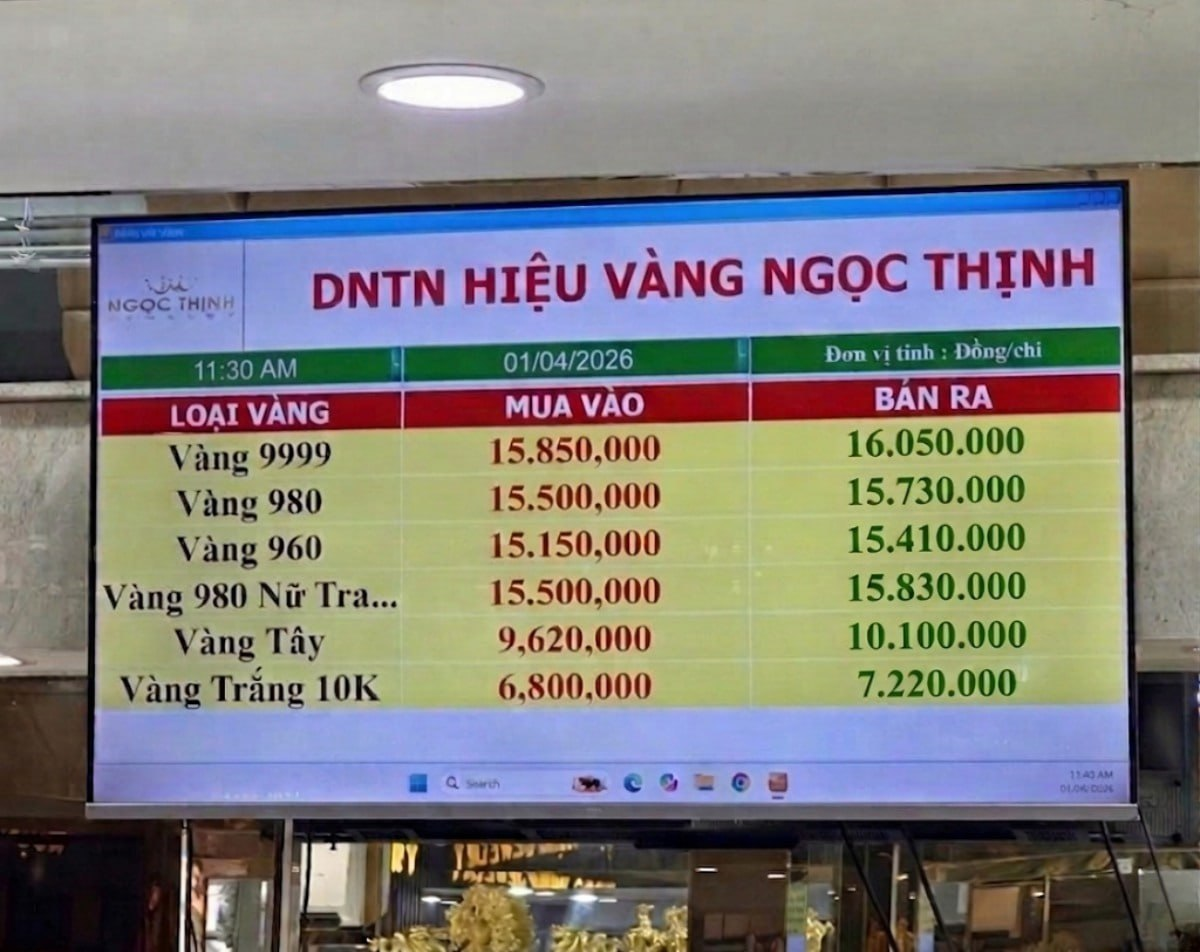
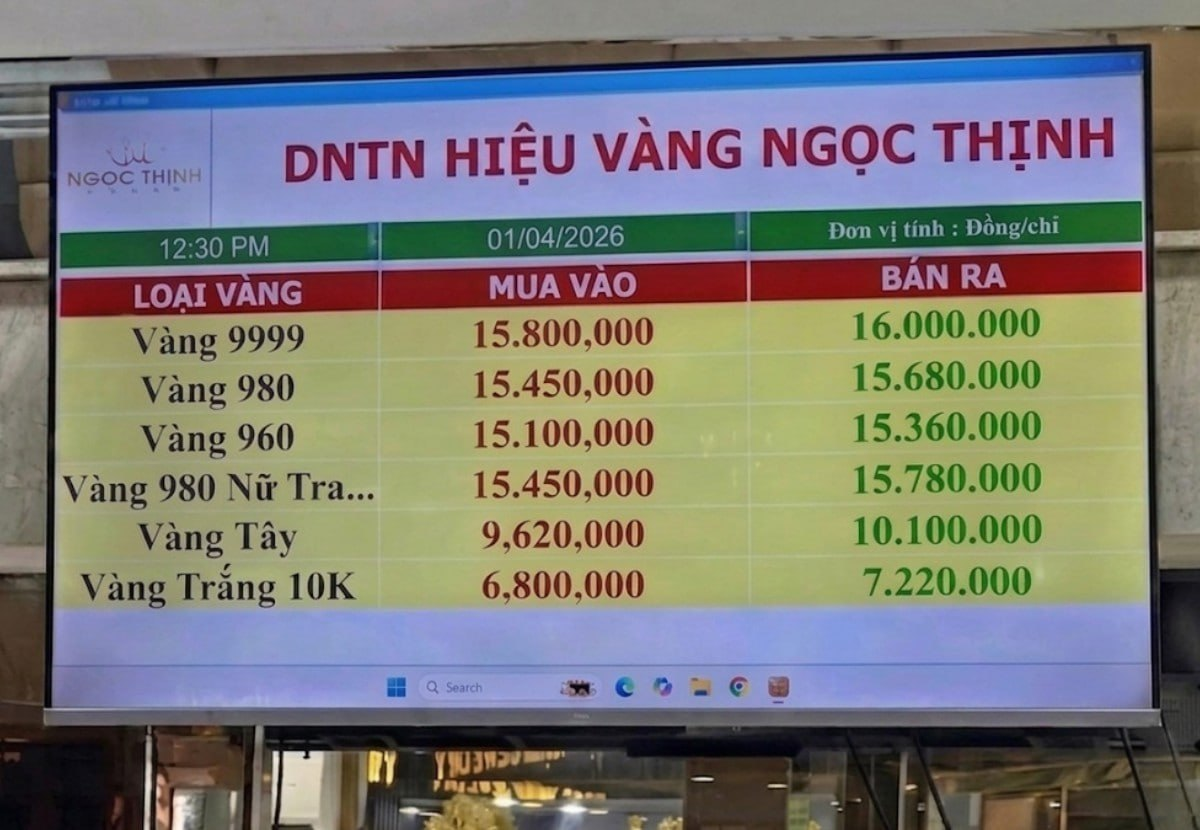
Update ngoc-thinh price image (14:37)

diff --git a/app/data/goldShops.ts b/app/data/goldShops.ts
@@ -19,7 +19,7 @@ export const GOLD_SHOPS: GoldShop[] = [
     name: "Ngọc Thịnh",
     location: "Đà Nẵng",
     image: "images/ngoc-thinh.jpg",
-    updatedAt: "11:39",
+    updatedAt: "14:37",
   },
   {
     id: "kim-khanh-viet-hung",
